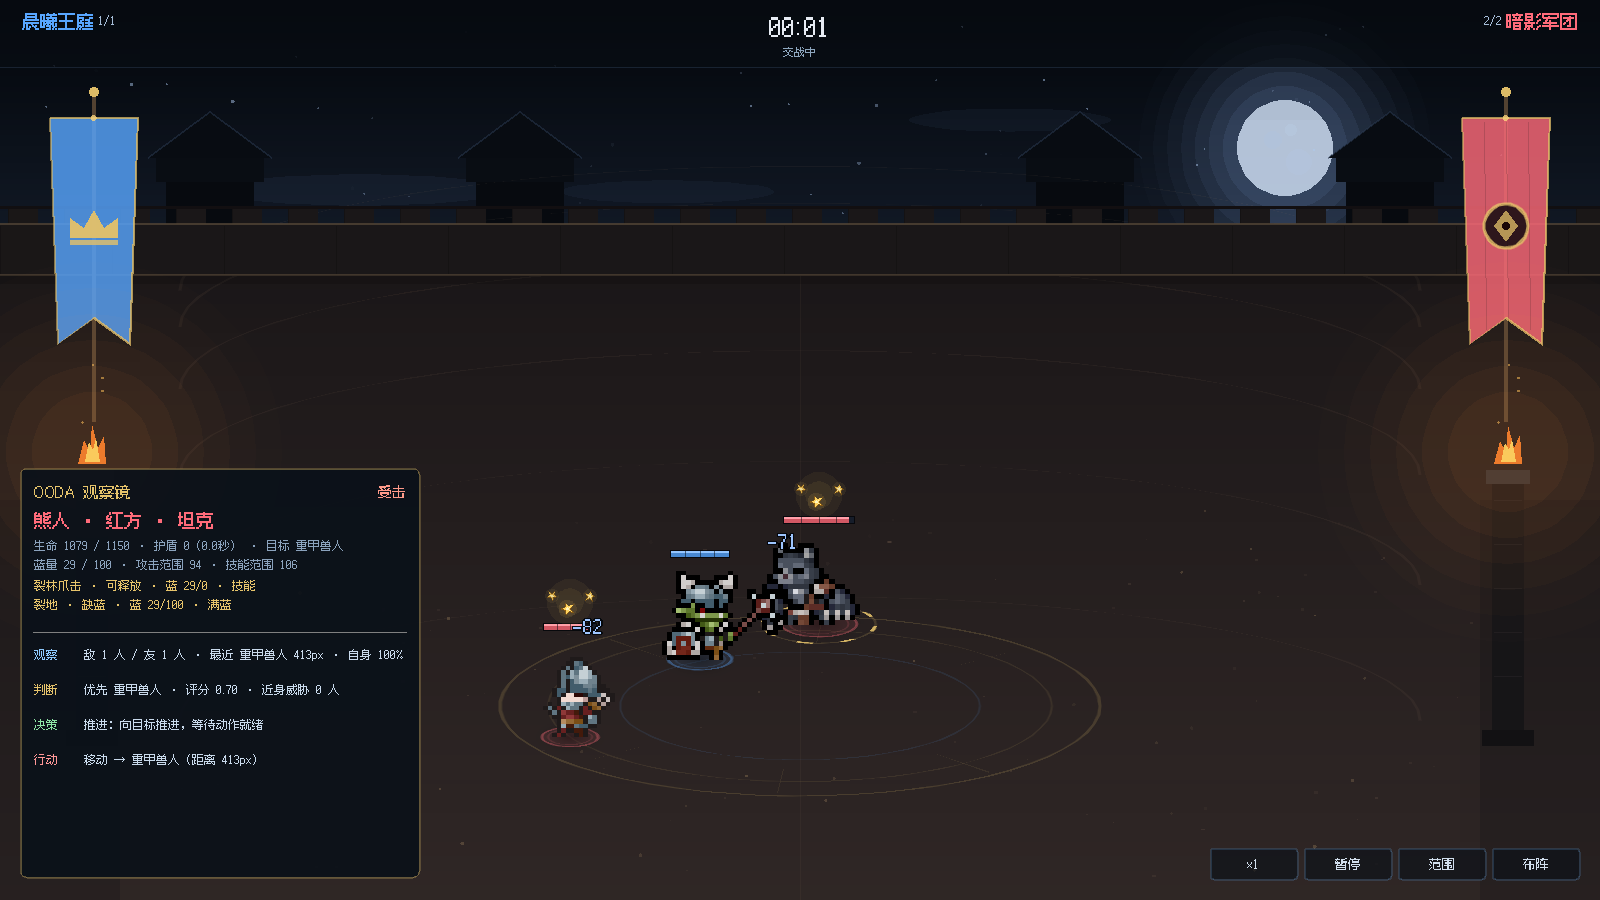
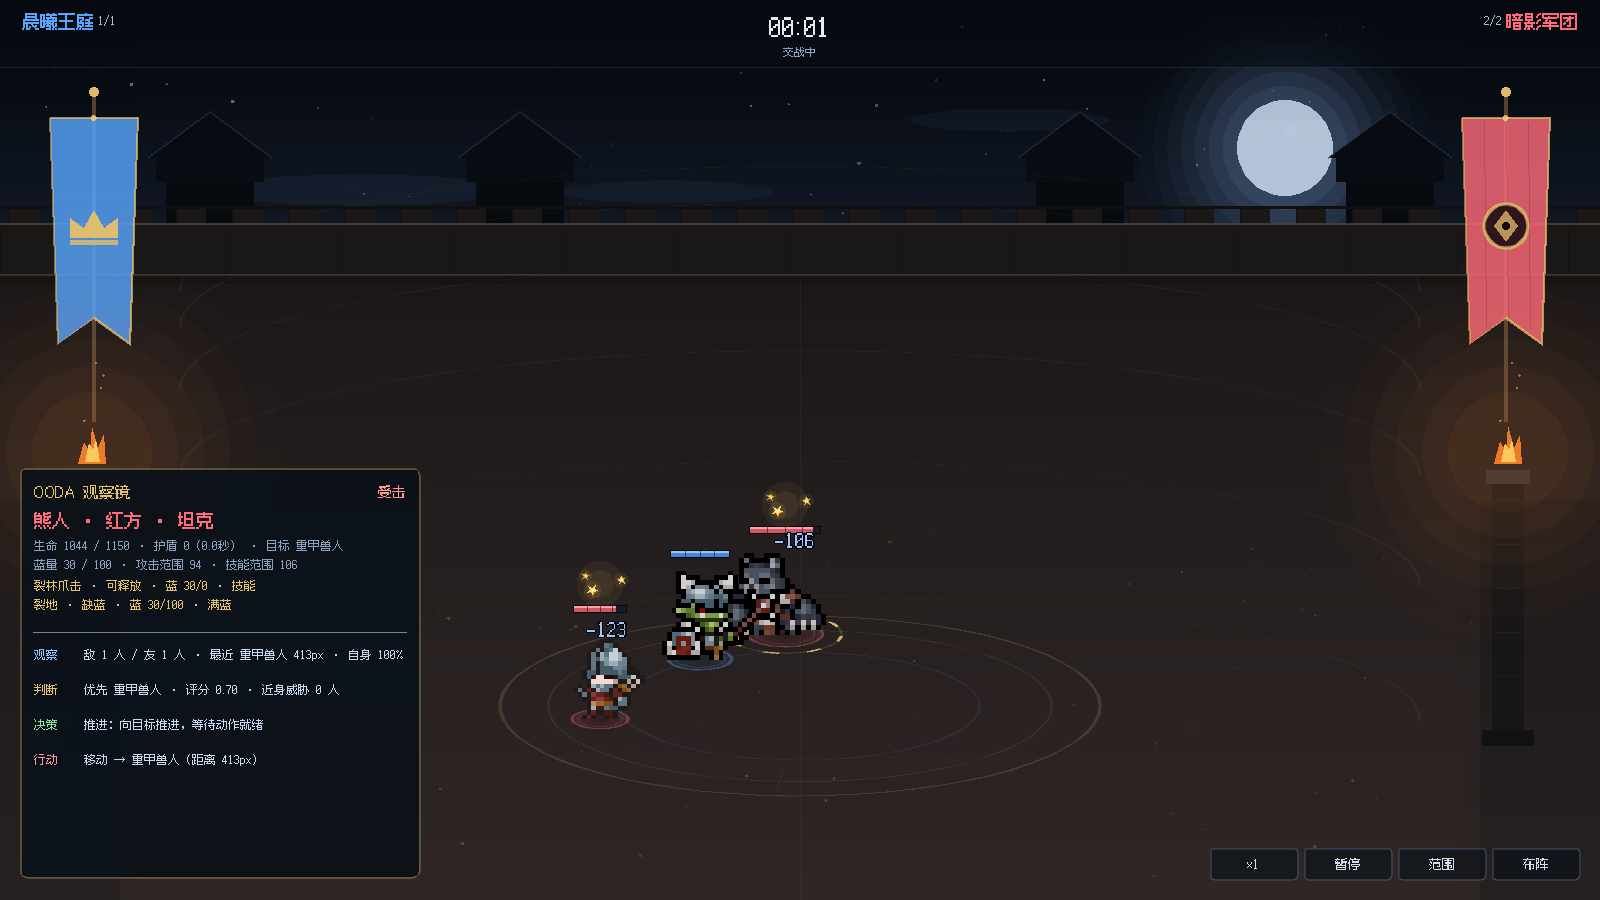
feat: 裂地盾击范围眩晕，贯甲突刺移除眩晕
裂地盾击的眩晕改为 150px 自身圆形范围，只作用于本次冲击波实际命中的敌人；贯甲突刺只保留伤害与击退。同步更新技能描述、技能表、README、测试与截图。

Changed region(s): [[0.4375, 0.5289, 0.5625, 0.7156], [0.3438, 0.6222, 0.4062, 0.84]]

diff --git a/tools/build_assets.py b/tools/build_assets.py
@@ -460,18 +460,16 @@ def _skills_for(unit: Unit) -> list[dict]:
     elif slug == "armored_orc":
         skills.append(_skill("armored_orc_bash", "贯甲突刺", "attack_02",
                              [_fx(shape=1, ratio=1.2, frame=5, radius=110.0, center_self=True),
-                              _fx(kind=5, shape=1, frame=5, radius=110.0, center_self=True,
-                                  status_kind=0, status_duration=0.9, requires_action_hit=True),
                               _fx(kind=6, shape=1, frame=5, radius=110.0, center_self=True,
                                   knockback=35.0)],
                              7.0, 7, 0.0, rng, target_mode=2,
-                             description="长矛向前突刺，对近身敌人造成伤害、眩晕 0.9 秒并击退。"))
+                             description="长矛向前突刺，对近身敌人造成伤害并击退。"))
         skills.append(_skill("armored_orc_quakeslam", "裂地盾击", "attack_03",
                              [_fx(shape=1, ratio=1.8, frame=6, radius=150.0, center_self=True),
-                              _fx(kind=5, shape=0, frame=6, status_kind=0,
-                                  status_duration=1.0)],
+                              _fx(kind=5, shape=1, frame=6, radius=150.0, center_self=True,
+                                  status_kind=0, status_duration=1.0, requires_action_hit=True)],
                              16.0, 10, 0.0, rng, mana=100.0, target_mode=2,
-                             description="以盾牌砸向地面释放冲击波，对范围内敌人造成伤害，并眩晕主目标 1 秒。"))
+                             description="以盾牌砸向地面释放冲击波，对范围内敌人造成伤害，并眩晕所有被命中的敌人 1 秒。"))
         skills.append(_guard_action("armored_orc_block", "格挡"))
     elif slug == "orc_rider":
         skills.append(_skill("orc_rider_ram", "裂阵冲撞", "attack_01",

diff --git a/README.md b/README.md
@@ -42,12 +42,11 @@
 
 ![眩晕](artifacts/stun.png)
 
-重甲兽人的贯甲突刺会对自身圆形范围内**实际被命中**的敌人追加 0.9 秒眩晕：
-目标立刻中断当前动作、强制进入受击状态，并在血条上方浮现三颗旋转的金色星星；
-眩晕期间目标无法移动或行动，结束后自动回到待机。星星特效由
+重甲兽人的满蓝大招「裂地盾击」会对自身圆形冲击波范围内**实际被命中**的敌人
+追加 1 秒眩晕：目标立刻中断当前动作、强制进入受击状态，并在血条上方浮现三颗旋转的
+金色星星；眩晕期间目标无法移动或行动，结束后自动回到待机。星星特效由
 `scenes/fx/stun_stars.tscn` 独立提供，法师冰封、熊人裂地等技能复用同一套
-`STATUS` 效果与表现。重甲兽人的满蓝大招「裂地盾击」则是用盾牌砸向地面释放冲击波，
-对范围内敌人造成伤害，并眩晕主目标 1 秒。
+`STATUS` 效果与表现。其普通技能「贯甲突刺」只有伤害和击退，不附带眩晕。
 
 ## 运行
 
@@ -466,7 +465,7 @@ godot --headless --path . res://tests/test_runner.tscn
 - 所有现有 attack02/03 动画都被某个技能使用；
 - 治疗、召唤、眩晕、击退实际生效；
 - 眩晕会打断当前动作、强制进入受击状态并保持到眩晕结束，头顶三星特效显示/旋转/结束；
-- 重甲兽人贯甲突刺只眩晕圆形范围内被命中的敌人，范围外敌人不受影响；
+- 重甲兽人裂地盾击眩晕所有被命中的敌人；贯甲突刺只造成伤害与击退，不附带眩晕；
 - 格挡、旋风斩、重击、火焰斩击等既有行为保持；
 - 冷却中的旧 Action 不会被 Idle 重复进入，技能冷却后恢复普攻。
 

diff --git a/docs/SKILL_ROSTER.md b/docs/SKILL_ROSTER.md
@@ -29,7 +29,7 @@
 | --- | --- | --- |
 | 兽人 | — | 狂暴斩（02，CD12）：前方扇形 |
 | 精锐兽人 | 血牙斩（02，CD6）：朝人群推进并连续挥砍 4 次 | 血月狂斩（03，CD14）：单体 350% 攻击伤害 |
-| 重甲兽人 | 贯甲突刺（02，CD7）：长矛突刺，自身圆形伤害 + 眩晕 0.9 秒/击退，仅命中范围内并被突刺命中的敌人；格挡（block，CD12） | 裂地盾击（03，CD16）：盾牌砸地，自身 150px 圆形冲击波 + 主目标眩晕 1 秒 |
+| 重甲兽人 | 贯甲突刺（02，CD7）：长矛突刺，自身圆形伤害 + 击退，无眩晕；格挡（block，CD12） | 裂地盾击（03，CD16）：盾牌砸地，自身 150px 圆形冲击波 + 眩晕所有被命中目标 1 秒 |
 | 兽人骑兵 | 裂阵冲撞（01，CD7）：突进最多 180px，命中单体后击退 70px；骑盾格挡（block，CD11）：低于 70% 生命时免伤 1.2 秒 | 裂阵回旋（03，CD15）：周围 170px 环斩，每命中 1 人获得 12% 最大生命护盾，最多 48%，持续 6 秒 |
 | 熊人 | 裂林爪击（02，CD7）：扇形 | 裂地（03，CD16）：圆形地刺 + 眩晕 |
 | 狼人 | — | 血月连斩（02，CD14）：满蓝时优先闪现到中距离目标身前；只有近身目标时也可释放。单体三连斩共 350% 攻击伤害，并使其流血 4 秒 |

diff --git a/docs/AI_DESIGN.md b/docs/AI_DESIGN.md
@@ -246,7 +246,7 @@ func can_transition(next: StringName) -> bool
 - `HurtState` 在 `unit.is_stunned()` 期间保持受击动画，眩晕时间归零后立刻回到 `Idle`；
 - 重复眩晕取剩余时间的最大值，不会叠加成无限控制；
 - 技能可要求 `requires_action_hit = true`，只对本次动作真正命中的目标施加眩晕
-  （重甲兽人·贯甲突刺即为此配置）。
+  （重甲兽人·裂地盾击即为此配置）。
 
 ### 攻击节奏
 
